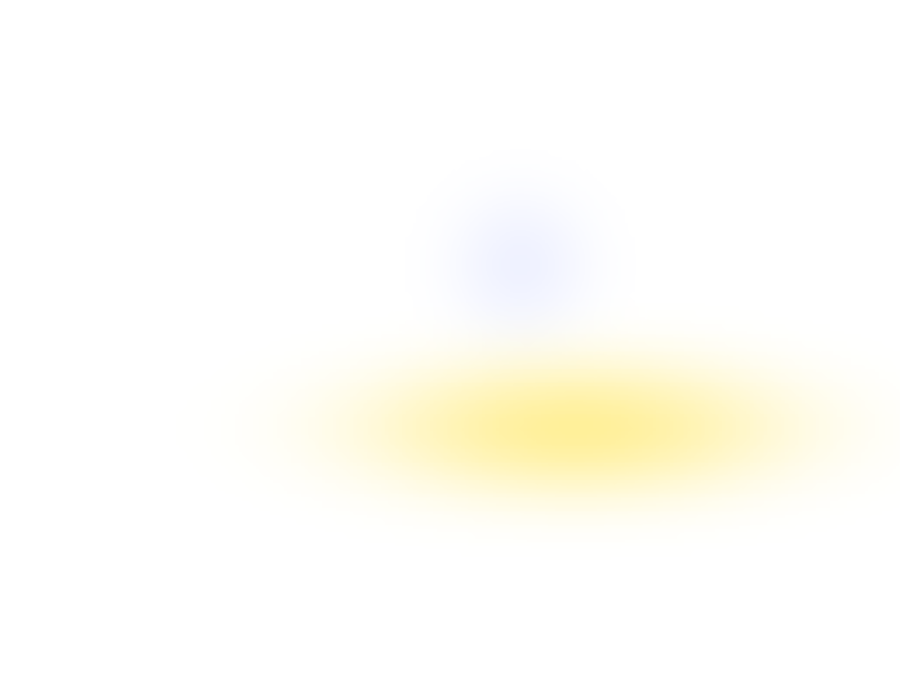
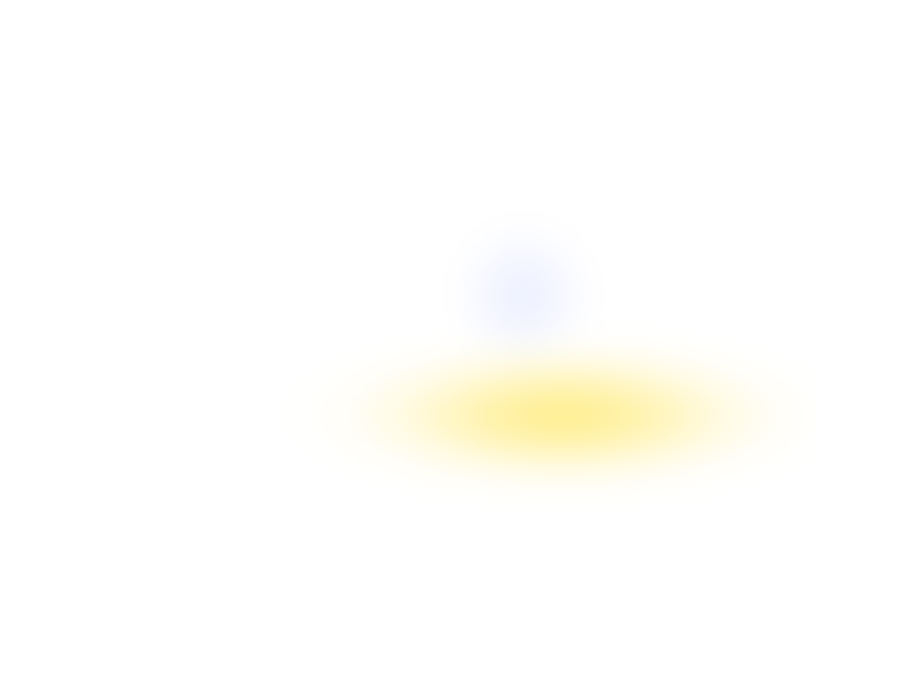
chest light, chest floor fx

Changed region(s): [[0.4044, 0.5455, 0.9022, 0.7576]]

diff --git a/client/sass/home/home.module.css b/client/sass/home/home.module.css
@@ -280,90 +280,138 @@
   top: min(200px, 16vw);
   z-index: 2;
 }
-.treasure_chestLight {
-  pointer-events: none;
-  position: absolute;
-  top: min(200px, 16vw);
-  -webkit-animation: flicker 3s infinite alternate;
-          animation: flicker 3s infinite alternate;
-  z-index: 3;
-  opacity: 0.8;
-}
 .treasure_chestFloor {
   pointer-events: none;
   position: absolute;
   top: min(200px, 16vw);
-  -webkit-animation: floor 3s infinite alternate;
-          animation: floor 3s infinite alternate;
+  -webkit-animation: floor 1.5s infinite ease-out;
+          animation: floor 1.5s infinite ease-out;
   z-index: 1;
   opacity: 0.7;
 }
-@-webkit-keyframes flicker {
-  40% {
-    filter: brightness(0.75) opacity(0.8);
+.treasure_chestLight {
+  pointer-events: none;
+  position: absolute;
+  top: min(200px, 16vw);
+  -webkit-animation: light 1.5s infinite linear;
+          animation: light 1.5s infinite linear;
+  z-index: 3;
+  opacity: 0.7;
+}
+@-webkit-keyframes light {
+  10% {
+    filter: opacity(0.94);
   }
-  47% {
-    filter: brightness(0.75) opacity(0.9) blur(15px);
+  20% {
+    filter: opacity(1) blur(5px);
   }
-  54% {
-    filter: brightness(0.75) opacity(0.8);
+  30% {
+    filter: opacity(0.8);
   }
-  61% {
-    filter: brightness(0.75) opacity(0.9) blur(15px);
+  41% {
+    filter: opacity(1) blur(5px);
   }
-  69% {
-    filter: brightness(0.75) opacity(0.8);
+  50% {
+    filter: opacity(0.98);
+  }
+  60% {
+    filter: opacity(0.78) blur(5px);
+  }
+  70% {
+    filter: opacity(0.78) blur(5px);
+  }
+  80% {
+    filter: opacity(0.64) blur(5px);
+  }
+  90% {
+    filter: opacity(1) blur(5px);
   }
 }
-@keyframes flicker {
-  40% {
-    filter: brightness(0.75) opacity(0.8);
+@keyframes light {
+  10% {
+    filter: opacity(0.94);
   }
-  47% {
-    filter: brightness(0.75) opacity(0.9) blur(15px);
+  20% {
+    filter: opacity(1) blur(5px);
   }
-  54% {
-    filter: brightness(0.75) opacity(0.8);
+  30% {
+    filter: opacity(0.8);
   }
-  61% {
-    filter: brightness(0.75) opacity(0.9) blur(15px);
+  41% {
+    filter: opacity(1) blur(5px);
   }
-  69% {
-    filter: brightness(0.75) opacity(0.8);
+  50% {
+    filter: opacity(0.98);
+  }
+  60% {
+    filter: opacity(0.78) blur(5px);
+  }
+  70% {
+    filter: opacity(0.78) blur(5px);
+  }
+  80% {
+    filter: opacity(0.64) blur(5px);
+  }
+  90% {
+    filter: opacity(1) blur(5px);
   }
 }
 @-webkit-keyframes floor {
-  40% {
-    filter: brightness(0.75) opacity(0.7);
+  10% {
+    filter: opacity(0.94);
   }
-  47% {
-    filter: brightness(0.75) opacity(0.75) blur(10px);
+  20% {
+    filter: opacity(1);
   }
-  54% {
-    filter: brightness(0.75) opacity(0.7);
+  30% {
+    filter: opacity(0.8);
   }
-  61% {
-    filter: brightness(0.75) opacity(0.75) blur(10px);
+  41% {
+    filter: opacity(1);
   }
-  69% {
-    filter: brightness(0.75) opacity(0.7);
+  50% {
+    filter: opacity(0.98);
+  }
+  60% {
+    filter: opacity(0.78);
+  }
+  70% {
+    filter: opacity(0.78);
+  }
+  80% {
+    filter: opacity(0.64);
+  }
+  90% {
+    filter: opacity(1);
   }
 }
 @keyframes floor {
-  40% {
-    filter: brightness(0.75) opacity(0.7);
+  10% {
+    filter: opacity(0.94);
   }
-  47% {
-    filter: brightness(0.75) opacity(0.75) blur(10px);
+  20% {
+    filter: opacity(1);
   }
-  54% {
-    filter: brightness(0.75) opacity(0.7);
+  30% {
+    filter: opacity(0.8);
   }
-  61% {
-    filter: brightness(0.75) opacity(0.75) blur(10px);
+  41% {
+    filter: opacity(1);
   }
-  69% {
-    filter: brightness(0.75) opacity(0.7);
+  50% {
+    filter: opacity(0.98);
+  }
+  60% {
+    filter: opacity(0.78);
+  }
+  70% {
+    filter: opacity(0.78);
+  }
+  80% {
+    filter: opacity(0.64);
+  }
+  90% {
+    filter: opacity(1);
   }
 }
 

diff --git a/client/sass/home/home.module.scss b/client/sass/home/home.module.scss
@@ -248,37 +248,45 @@ $mobile-margin: 40% 10% 0 10%;
 		z-index: 2;
 	}
 	
-	&_chestLight {
-		pointer-events: none;
-		position: absolute;
-		top: min(200px, 16vw);
-		animation: flicker 3s infinite alternate;
-		z-index: 3;
-		opacity: 0.8;
-	}
 	&_chestFloor {
 		pointer-events: none;
 		position: absolute;
 		top: min(200px, 16vw);
-		animation: floor 3s infinite alternate;
+		animation: floor 1.5s infinite ease-out;
 		z-index: 1;
 		opacity: 0.7;
 	}
+	&_chestLight {
+		pointer-events: none;
+		position: absolute;
+		top: min(200px, 16vw);
+		animation: light 1.5s infinite linear;
+		z-index: 3;
+		opacity: 0.7;
+	}
 
-	@keyframes flicker {
-		40% {filter: brightness(0.75) opacity(0.8);}
-		47% {filter: brightness(0.75) opacity(0.9) blur(15px);}
-		54% {filter: brightness(0.75) opacity(0.8);}
-		61% {filter: brightness(0.75) opacity(0.9) blur(15px);}
-	    69% {filter: brightness(0.75) opacity(0.8);}
+	@keyframes light {
+		10% {filter: opacity(0.94);}
+		20% {filter: opacity(1) blur(5px);}
+		30% {filter: opacity(0.8);}
+		41% {filter: opacity(1) blur(5px);}
+	    50% {filter: opacity(0.98);}
+		60% {filter: opacity(0.78) blur(5px);}
+		70% {filter: opacity(0.78) blur(5px);}
+		80% {filter: opacity(0.64) blur(5px);}
+		90% {filter: opacity(1) blur(5px);}
 	}
 
 	@keyframes floor {
-		40% {filter: brightness(0.75) opacity(0.7);}
-		47% {filter: brightness(0.75) opacity(0.75) blur(10px);}
-		54% {filter: brightness(0.75) opacity(0.7);}
-		61% {filter: brightness(0.75) opacity(0.75) blur(10px);}
-	    69% {filter: brightness(0.75) opacity(0.7);}
+		10% {filter: opacity(0.94);}
+		20% {filter: opacity(1) ;}
+		30% {filter: opacity(0.8);}
+		41% {filter: opacity(1) ;}
+	    50% {filter: opacity(0.98);}
+		60% {filter: opacity(0.78) ;}
+		70% {filter: opacity(0.78) ;}
+		80% {filter: opacity(0.64) ;}
+		90% {filter: opacity(1);}
 	}
 }
 

diff --git a/client/pages/index.js b/client/pages/index.js
@@ -29,16 +29,16 @@ export default function Home() {
   const setOffsetY = useScrollEvent();
   const scrollPercent = useRecoilValue(ScrollValue);
 
-  function StartAudio() {
-    document.getElementById('bg-music').play();
-    window.removeEventListener('click', StartAudio);
-    window.removeEventListener('scroll', StartAudio);
-  }
+  // function StartAudio() {
+  //   document.getElementById('bg-music').play();
+  //   window.removeEventListener('click', StartAudio);
+  //   window.removeEventListener('scroll', StartAudio);
+  // }
 
-  useEffect(() => {
-    window.addEventListener('click', StartAudio);
-    window.addEventListener('scroll', StartAudio);
-  });
+  // useEffect(() => {
+  //   window.addEventListener('click', StartAudio);
+  //   window.addEventListener('scroll', StartAudio);
+  // });
 
   return (
     <div className={s.App}>
@@ -50,8 +50,8 @@ export default function Home() {
         <link rel="icon" href="/favicon.ico" />
       </Head>
 
-      <audio src="/audio/UnderwaterLoop.wav" type="audio/wav" id="bg-music" autoPlay loop>
-      </audio>
+      {/* <audio src="/audio/UnderwaterLoop.wav" type="audio/wav" id="bg-music" autoPlay loop>
+      </audio> */}
 
 
       <img className={s.sunlight} src="/img/home/sunlight.png" alt="" />
